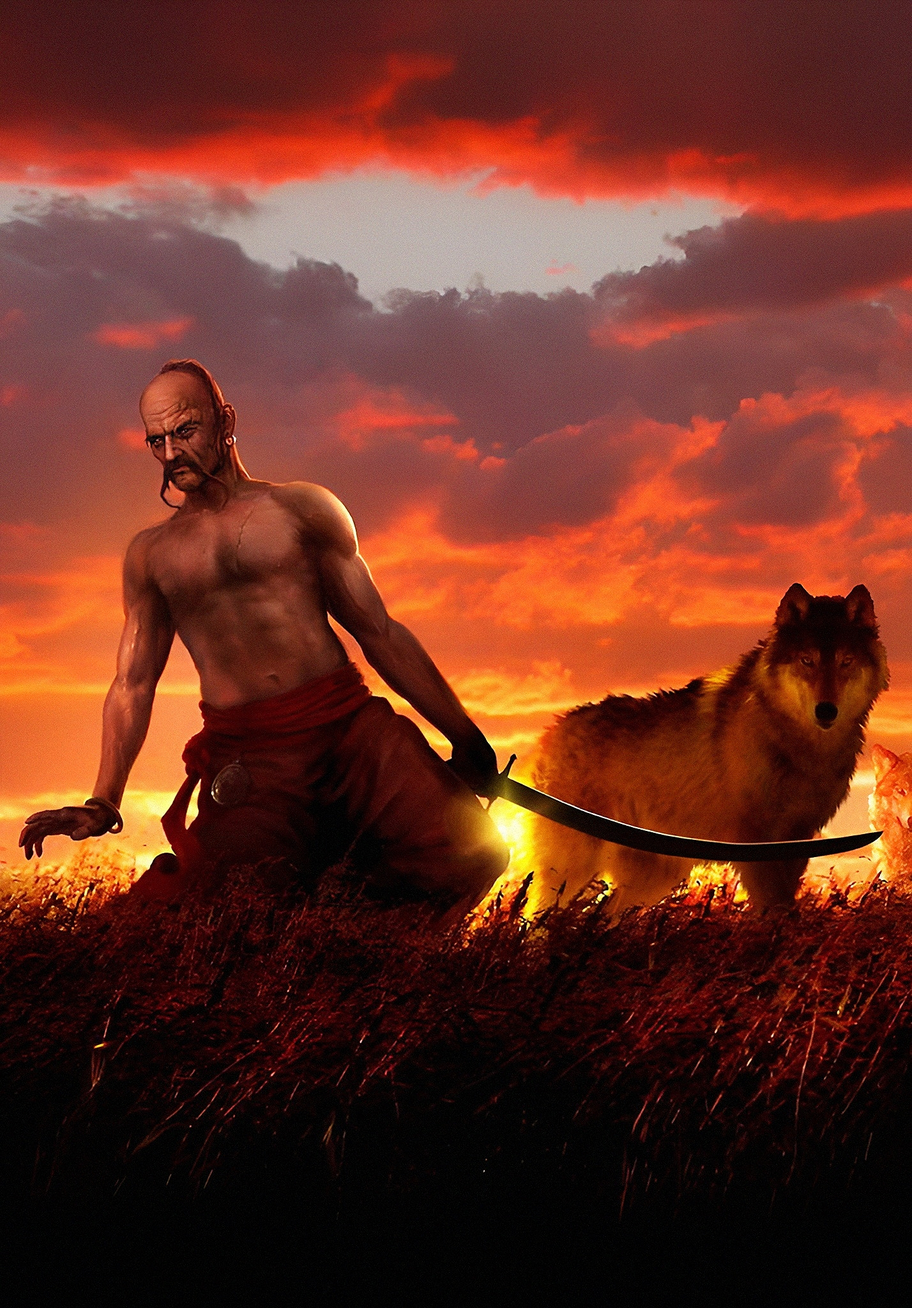
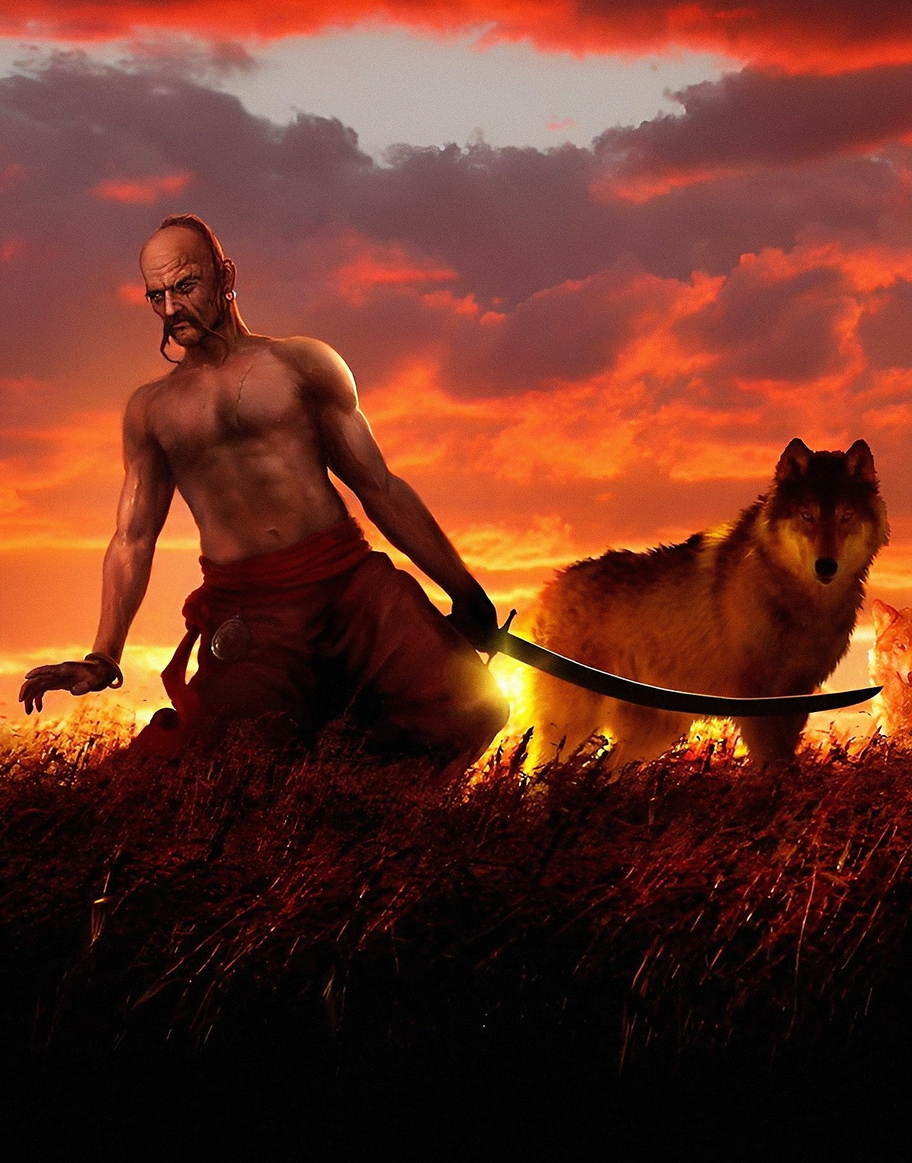
add

diff --git a/src/sass/components/_backdrop-form-search.scss b/src/sass/components/_backdrop-form-search.scss
@@ -163,7 +163,7 @@
   object-fit: contain;
 }
 
-// -----------------------
+// -----search-list-content------------------
 
 .search-list__content {
   padding-top: 24px;
@@ -198,12 +198,13 @@
 
 .bestiary-item {
   &:nth-child(2) img {
-    object-position: center 20%;
+    object-position: center 0% !important;
   }
 }
 
 .bestiary-item__heder {
   display: flex;
+  align-items: center;
   column-gap: 16px;
 
   padding: 12px 16px;
@@ -265,20 +266,16 @@
 .bestiary-item__img {
   max-height: 200px;
   object-fit: cover;
-  object-position: center;
-
-  &-witcher {
-    object-position: top;
-  }
-
-  &-ukr {
-    object-position: center 40%;
-  }
+  object-position: center 30%;
 
   @media (min-width: 790px) {
     max-height: 332px;
   }
 }
+
+// .search-item__img {
+//   object-position: center 20%;
+// }
 
 .bestiary-body {
   background-color: var(--dark-gray-color);

diff --git a/src/js/backdrop-search.js b/src/js/backdrop-search.js
@@ -92,7 +92,7 @@ function markupContent (result) {
 
 <picture class="bestiary-item__picture">
   <a href="${ref}">
-    <img class="bestiary-item__img bestiary-item__img-ukr" src="${img}" alt="${name}" loading="lazy">
+    <img class="bestiary-item__img search-item__img" src="${img}" alt="${name}" loading="lazy">
   </a>
 </picture>
 

diff --git a/src/sass/layout/page-bestiary/_bestiary-section.scss b/src/sass/layout/page-bestiary/_bestiary-section.scss
@@ -320,7 +320,7 @@
   }
 
   &-ukr {
-    object-position: center 40%;
+    object-position: center 30%;
   }
 
   @media (min-width: 790px) {
